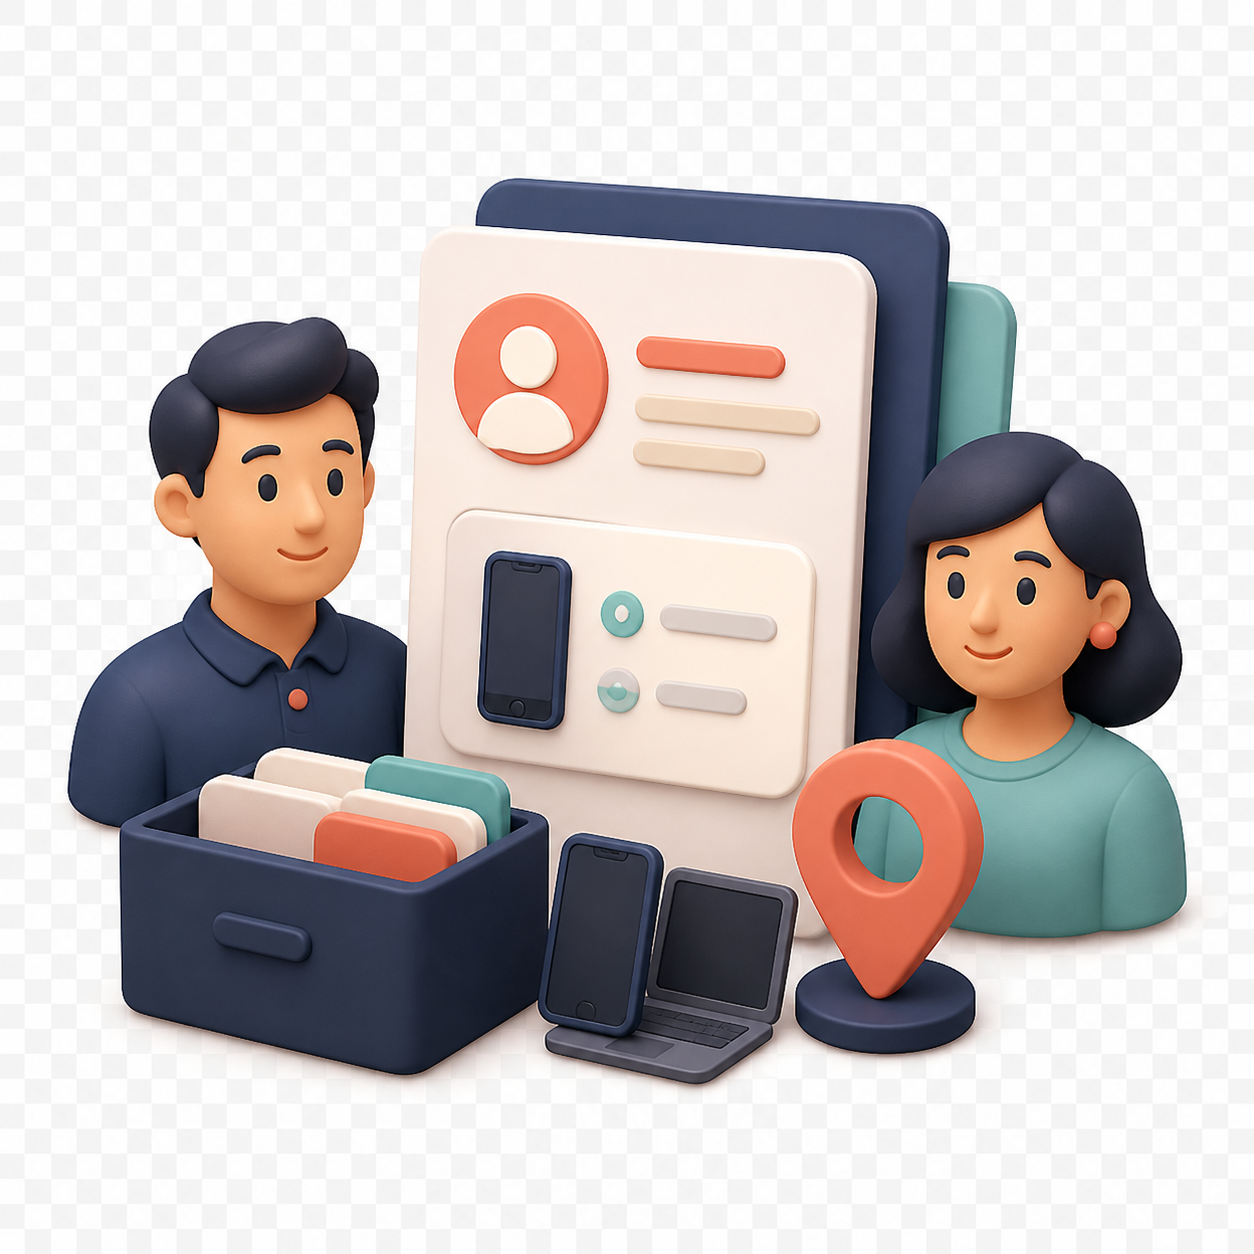
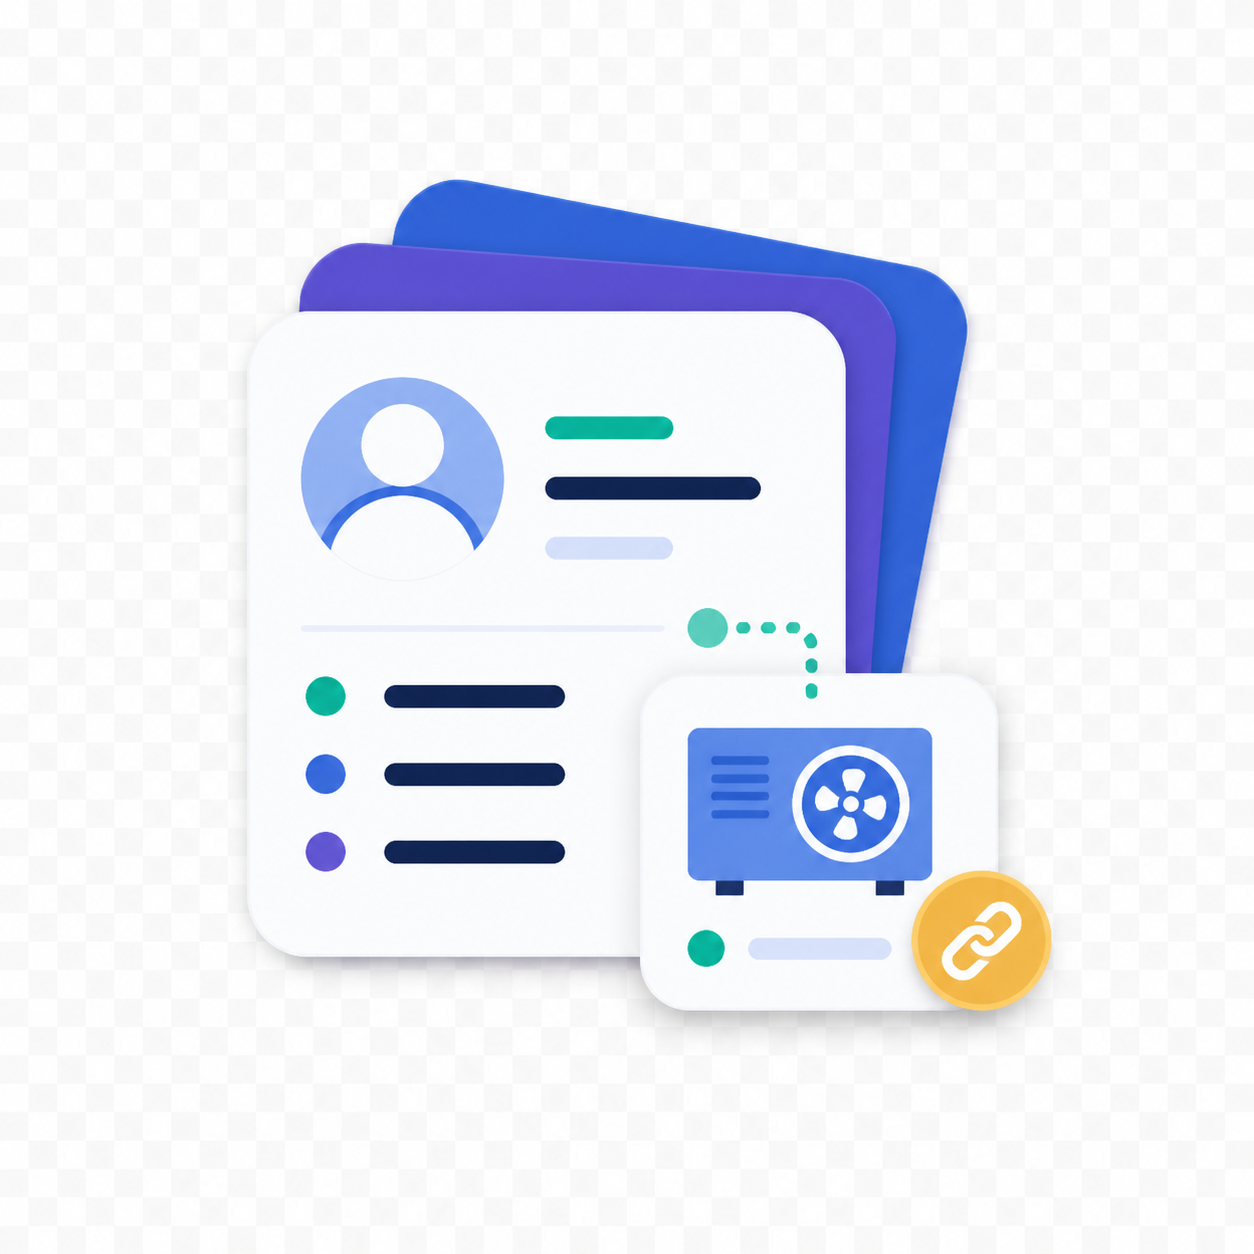
chore: update release metadata and welcome assets

diff --git a/docs/release-checklist.md b/docs/release-checklist.md
@@ -2,16 +2,16 @@
 
 ## 版本与构建登记（唯一记录）
 
-- `pubspec.yaml`：`1.0.1+8`；
+- `pubspec.yaml`：`1.0.1+9`；
 - `versionName`：`1.0.1`；
-- `versionCode`：`8`；
-- 已确认 Google Play 不可复用的版本代码：`5`、`6`；
-- 下一次用于商店上传的版本代码必须高于 Google Play Console 已使用的最大值；本次使用 `8`，后续如已上传则继续递增。
+- `versionCode`：`9`；
+- 已确认 Google Play 不可复用的版本代码：`5`、`6`、`7`、`8`；
+- 下一次用于商店上传的版本代码必须高于 Google Play Console 已使用的最大值；本次使用 `9`，后续如已上传则继续递增。
 
 | 产物 | 构建日期 | 大小 | SHA-256 |
 | --- | --- | ---: | --- |
[4 lines of base64/hex data omitted]
 
 版本代码记录：
 
@@ -20,7 +20,8 @@
 | `1.0.1` | `5` | 已占用 | Google Play 提示版本代码已使用 |
 | `1.0.1` | `6` | 已占用 | Google Play 提示版本代码已使用 |
 | `1.0.1` | `7` | 已占用 | Google Play 提示版本代码已使用 |
-| `1.0.1` | `8` | 当前记录 | Release AAB 已构建，产物文件名包含版本名和版本代码 |
+| `1.0.1` | `8` | 已占用 | Google Play 提示版本代码已使用 |
+| `1.0.1` | `9` | 当前记录 | Release AAB 已构建，产物文件名包含版本名和版本代码 |
 
 ## APK/AAB 专业版授权规则
 
@@ -114,13 +115,15 @@
 - 购买取消修复：处理 Google Play 取消支付时可能返回的空商品 ID，并加入购买窗口超时兜底，未付款返回后按钮会恢复可点击；
 - Flutter 验证：`flutter analyze` 无问题，51 项测试全部通过。
 - 内部 APK：使用 `--dart-define=ENABLE_RELEASE_PRO_PREVIEW=true` 重新构建成功；预览授权仅用于内部验收，不写入购买缓存。
[4 lines of base64/hex data omitted]
 
 ## 本次功能变更记录（2026-08-17）
 
 - [x] 首次进入按系统语言默认中文或英文，已有语言设置不被覆盖；
 - [x] 欢迎页改为可左右滑动的功能 Banner，每项功能配套插画；
+- [x] 欢迎页采用自适应高度布局，按钮在小屏可视区域内直接点击，无需向下滑动；
 - [x] 语言设置中增加“打开欢迎页”入口，便于调试首次安装流程；
+- [x] Google Play 版本代码由 `8` 提升为 `9`，完成新的 Release APK/AAB 构建；
 
 仍需在 Google Play 内部测试轨道完成 AAB 上传、测试账号安装、真实购买、恢复购买、离线使用和重新安装验证。

diff --git a/README.md b/README.md
@@ -124,7 +124,7 @@ AAB 是正式商店包，专业版功能默认必须通过 Google Play 购买并
 & 'I:\sdk\flutter\bin\flutter.bat' build appbundle --release
 ```
 
-产物位于 `build/app/outputs/bundle/release/app-release-<versionName>+<versionCode>.aab`（例如 `app-release-1.0.1+8.aab`，同时保留 Flutter 默认产物 `app-release.aab`）。具体版本、构建号、产物大小和 SHA-256 统一记录在[发布检查清单](docs/release-checklist.md)，本文件不重复维护具体构建记录。
+产物位于 `build/app/outputs/bundle/release/app-release-<versionName>+<versionCode>.aab`（例如 `app-release-1.0.1+9.aab`，同时保留 Flutter 默认产物 `app-release.aab`）。具体版本、构建号、产物大小和 SHA-256 统一记录在[发布检查清单](docs/release-checklist.md)，本文件不重复维护具体构建记录。
 
 ## 版本号与构建号
 
